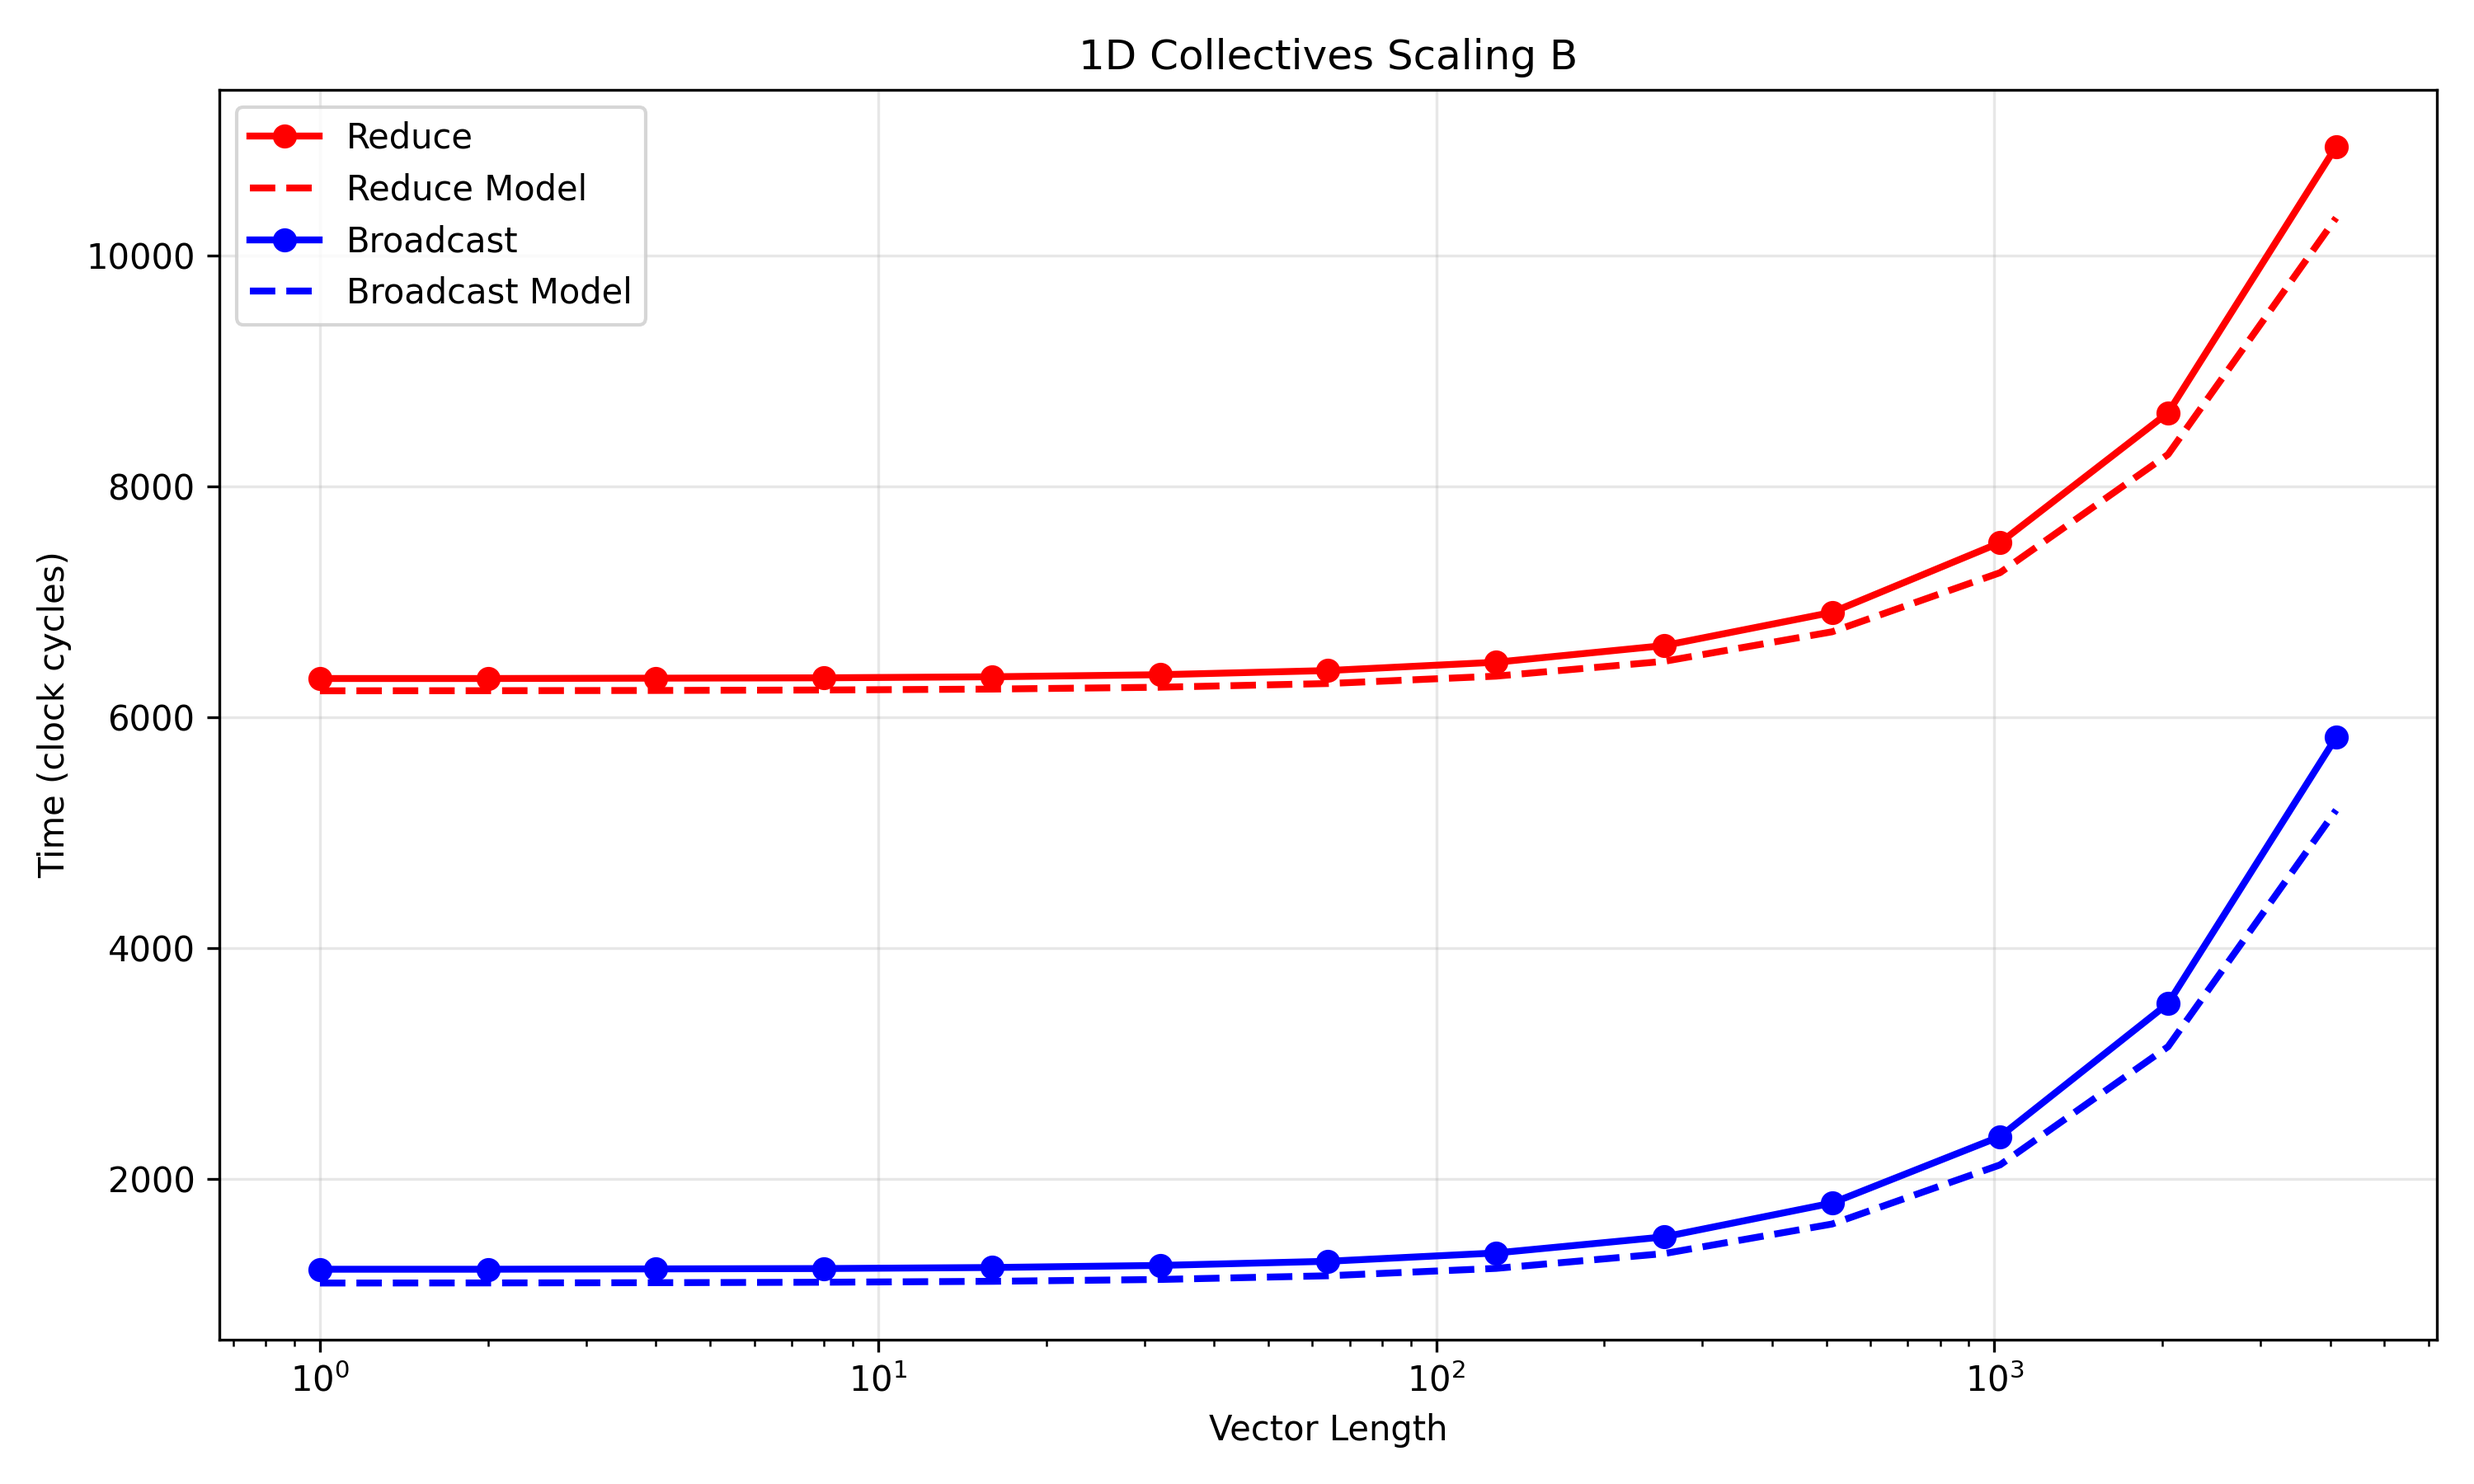
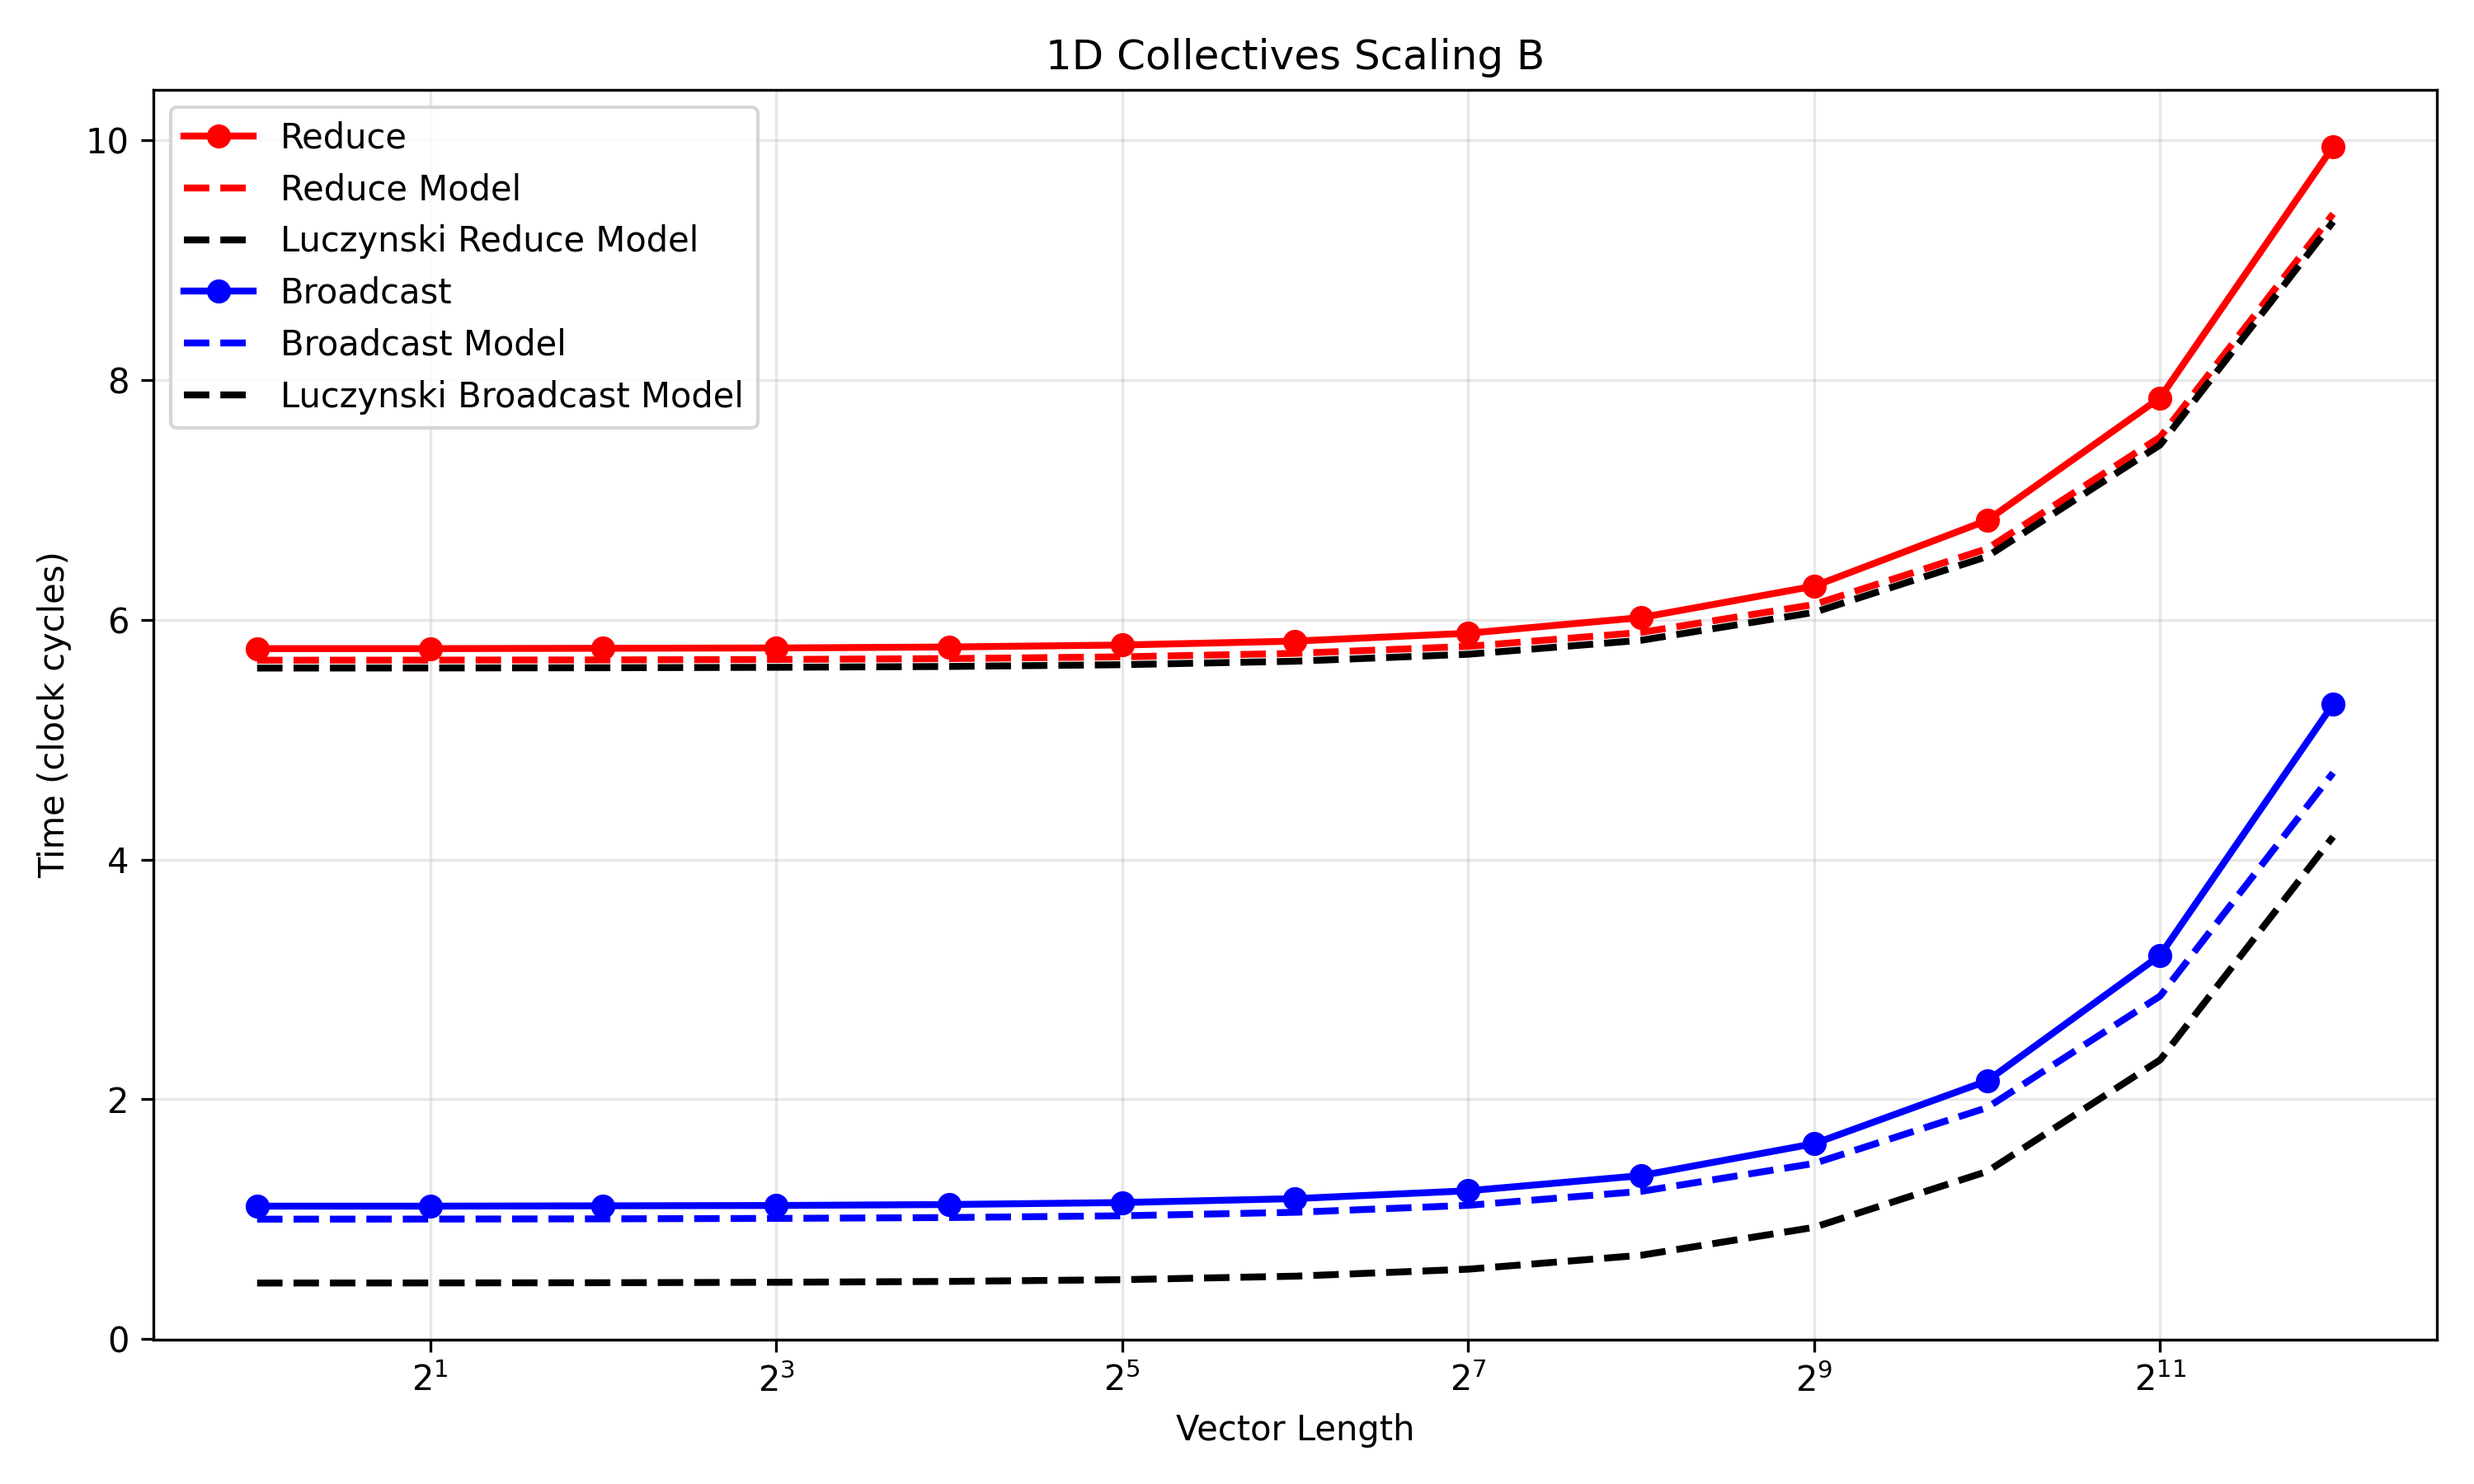
adding old model

diff --git a/1_IA3paper/data/collectives_plot.py b/1_IA3paper/data/collectives_plot.py
@@ -12,12 +12,16 @@ plt.figure(figsize=(10, 6))
 # reduce model: vector_length + 12 * (512 + 1) + 9/64 * 512
 df['reduce-model'] = df['vector length'] + 12 * (512 + 1) + 8 * 9
 df['bcast-model'] =  df['vector length'] + 2 * (512 + 2) + 8 * 9
+df['old-reduce-model'] = df['vector length'] + 12 * (512 + 1) 
+df['old-bcast-model'] =  df['vector length'] +  (512 + 2) 
 
-plt.plot(df['vector length'], df['reduce'], marker='o', linewidth=2, label='Reduce', color='red')
-plt.plot(df['vector length'], df['reduce-model'], linewidth=2, label='Reduce Model', color='red', linestyle='--')
+plt.plot(df['vector length'], df['reduce'] / 1100, marker='o', linewidth=2, label='Reduce', color='red')
+plt.plot(df['vector length'], df['reduce-model'] / 1100, linewidth=2, label='Reduce Model', color='red', linestyle='--')
+plt.plot(df['vector length'], df['old-reduce-model'] / 1100, linewidth=2, label='Luczynski Reduce Model', color='black', linestyle='--')
 
-plt.plot(df['vector length'], df['bcast-tomem'], marker='o', linewidth=2, label='Broadcast', color='blue')
-plt.plot(df['vector length'], df['bcast-model'], linewidth=2, label='Broadcast Model', color='blue', linestyle='--')
+plt.plot(df['vector length'], df['bcast-tomem'] / 1100, marker='o', linewidth=2, label='Broadcast', color='blue')
+plt.plot(df['vector length'], df['bcast-model'] / 1100, linewidth=2, label='Broadcast Model', color='blue', linestyle='--')
+plt.plot(df['vector length'], df['old-bcast-model'] / 1100, linewidth=2, label='Luczynski Broadcast Model', color='black', linestyle='--')
 
 
 plt.xlabel('Vector Length')
@@ -43,12 +47,16 @@ plt.figure(figsize=(10, 6))
 df['reticle-overhead'] = np.floor((df['nPEs'] + 2) / 64) * 9
 df['reduce-model'] = 256 + 12 * (df['nPEs'] + 1) + df['reticle-overhead']
 df['bcast-model'] =  256 + 2 * (df['nPEs'] + 2) + df['reticle-overhead']
+df['old-reduce-model'] = 256 + 12 * (df['nPEs'] + 1)
+df['old-bcast-model'] =  256 + (df['nPEs'] + 2) 
 
-plt.plot(df['nPEs'], df['reduce'], marker='o', linewidth=2, label='Reduce', color='red')
-plt.plot(df['nPEs'], df['reduce-model'], linewidth=2, label='Reduce Model', color='red', linestyle='--')
+plt.plot(df['nPEs'], df['reduce'] / 1100 , marker='o', linewidth=2, label='Reduce', color='red')
+plt.plot(df['nPEs'], df['reduce-model'] / 1100, linewidth=2, label='Reduce Model', color='red', linestyle='--')
+plt.plot(df['nPEs'], df['old-reduce-model'] / 1100, linewidth=2, label='Luczynski Reduce Model', color='black', linestyle='--')
 
-plt.plot(df['nPEs'], df['bcast-tomem'], marker='o', linewidth=2, label='Broadcast', color='blue')
-plt.plot(df['nPEs'], df['bcast-model'], linewidth=2, label='Broadcast Model', color='blue', linestyle='--')
+plt.plot(df['nPEs'], df['bcast-tomem'] / 1100, marker='o', linewidth=2, label='Broadcast', color='blue')
+plt.plot(df['nPEs'], df['bcast-model'] / 1100, linewidth=2, label='Broadcast Model', color='blue', linestyle='--')
+plt.plot(df['nPEs'], df['old-bcast-model']  / 1100, linewidth=2, label='Luczynski Bcast Model', color='black', linestyle='--')
 
 
 plt.xlabel('nPEs')

diff --git a/1_IA3paper/two-phase-spmv.tex b/1_IA3paper/two-phase-spmv.tex
@@ -47,10 +47,18 @@
 \subsection{1D Collectives}
 \subsection{Matrix-Free Approaches}
 
-\section{1D Collective-based SpMV}
+
+\section{1D Collectives}
+\begin{enumerate}
+    \item Luczynski et al presents the chain reduce and multicast broadcast that we use.
+    \item They also present performance model
+    \item We implement the same things in Tungsten + Paint and
+\end{enumerate}
+
+\section{Two-Phase SpMV}
 \subsection{Sparse Partitionings}
 Need to guarantee row and column locality (RCL)
-\subsection{Two-Phase Dataflow Algorithm}
+\subsection{Dataflow Algorithm}
 Assuming RCL, SpMV can be broken down into our two simple 1D collectives.
 \subsection{Performance Model}
 Based on Lucynski et al but with additional computation modelling (as max and avg nnz per pe increase).
